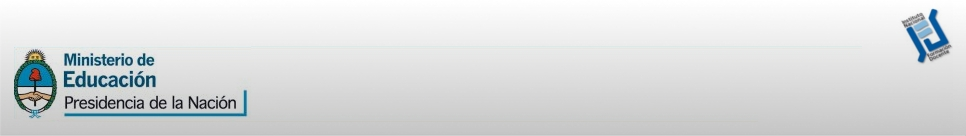
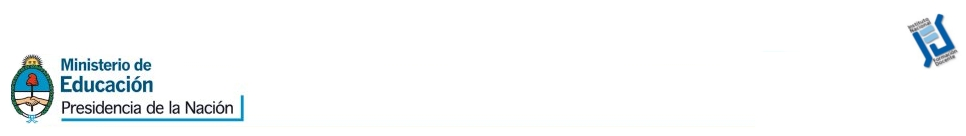
Modificaciones en estilos y layouts

diff --git a/meregistro/static/css/main.css b/meregistro/static/css/main.css
@@ -44,7 +44,7 @@ div#header {
 	width: 966px;
 	height: 136px;
 	margin: 0 auto;
-	background: url(../img/header-01-965x136.jpg) no-repeat;
+	background: url(../img/header-03-965x136.jpg) no-repeat;
 	border-bottom: 3px #000 solid;
 	position: relative;
 }
@@ -536,7 +536,38 @@ div.paginator p.paginator-summary {
 	margin: 8px 0 0 10px;
 	float: left;
 }
-
+/*
+=USERINFO
+*/
+div#userInfo {
+	float: right;
+	margin: 80px 10px 0 0;
+}
+div#userInfo ul#userLinks {
+}
+div#userInfo ul#userLinks li {
+	float: left;
+	margin: 0 5px 0 0;
+	border-right: 1px #C02A19 solid;
+	padding-right: 7px;
+}
+div#userInfo ul#userLinks li.last {
+	border-right: none;
+	padding-right: 0px;
+}
+div#userInfo ul#userLinks a:link,
+div#userInfo ul#userLinks a:visited {
+	font-size: 12px;
+	color: #C02A19;
+	text-transform: uppercase;
+	text-decoration: none;
+}
+div#userInfo ul#userLinks a:hover {
+	text-decoration: underline;
+}
+/*
+=POPUP_SELECTOR_AMBITO
+*/
 div.popup_selector_ambito
 {
   position: absolute;

diff --git a/meregistro/templates/base_registro.html b/meregistro/templates/base_registro.html
@@ -15,14 +15,7 @@
 			<h1><a href="/"><span>Ministerio de Educación</span></a></h1>
 			<h2><span>Instituto Nacional de Formación Docente</span></h2>
 			{% if user.is_authenticated %}
-				<div id="user_info">
-					Usuario: {{ user.apellido }}, {{ user.nombre }}
-					Perfil: {{ user_perfil.rol }} en "{{ user_perfil.ambito }}"
-				<ul>
-					<li><a href="{% url seguridad.views.login.logout %}">Cerrar sesión</a></li>
-					<li><a href="{% url seguridad.views.login.seleccionar_perfil %}">Cambiar perfil</a></li>
-				</ul>
-				</div>
+				{% include "user_info.html" %}
 			{% endif %}
 		</div>	<!-- END header -->
 		<div class="nav" id="mainNav">

diff --git a/meregistro/templates/base_seguridad.html b/meregistro/templates/base_seguridad.html
@@ -15,14 +15,7 @@
 			<h1><a href="/"><span>Ministerio de Educación</span></a></h1>
 			<h2><span>Instituto Nacional de Formación Docente</span></h2>
 			{% if user.is_authenticated %}
-				<div id="user_info">
-					Usuario: {{ user.apellido }}, {{ user.nombre }}
-					Perfil: {{ user_perfil.rol }} en "{{ user_perfil.ambito }}"
-				<ul>
-					<li><a href="{% url seguridad.views.login.logout %}">Cerrar sesión</a></li>
-					<li><a href="{% url seguridad.views.login.seleccionar_perfil %}">Cambiar perfil</a></li>
-				</ul>
-				</div>
+				{% include "user_info.html" %}
 			{% endif %}
 		</div>	<!-- END header -->
 		<div class="nav" id="mainNav">

diff --git a/meregistro/templates/user_info.html b/meregistro/templates/user_info.html
@@ -1,0 +1,8 @@
+<div id="userInfo">
+	<p><strong>Usuario:</strong> {{ user.apellido }}, {{ user.nombre }}</p>
+	<p><strong>Perfil:</strong> {{ user_perfil.rol }} en "{{ user_perfil.ambito }}"</p>
+	<ul id="userLinks">
+		<li class="first"><a href="{% url seguridad.views.login.logout %}"><span>Cerrar sesión</span></a></li>
+		<li class="last"><a href="{% url seguridad.views.login.seleccionar_perfil %}"><span>Cambiar perfil</span></a></li>
+	</ul>
+</div>
